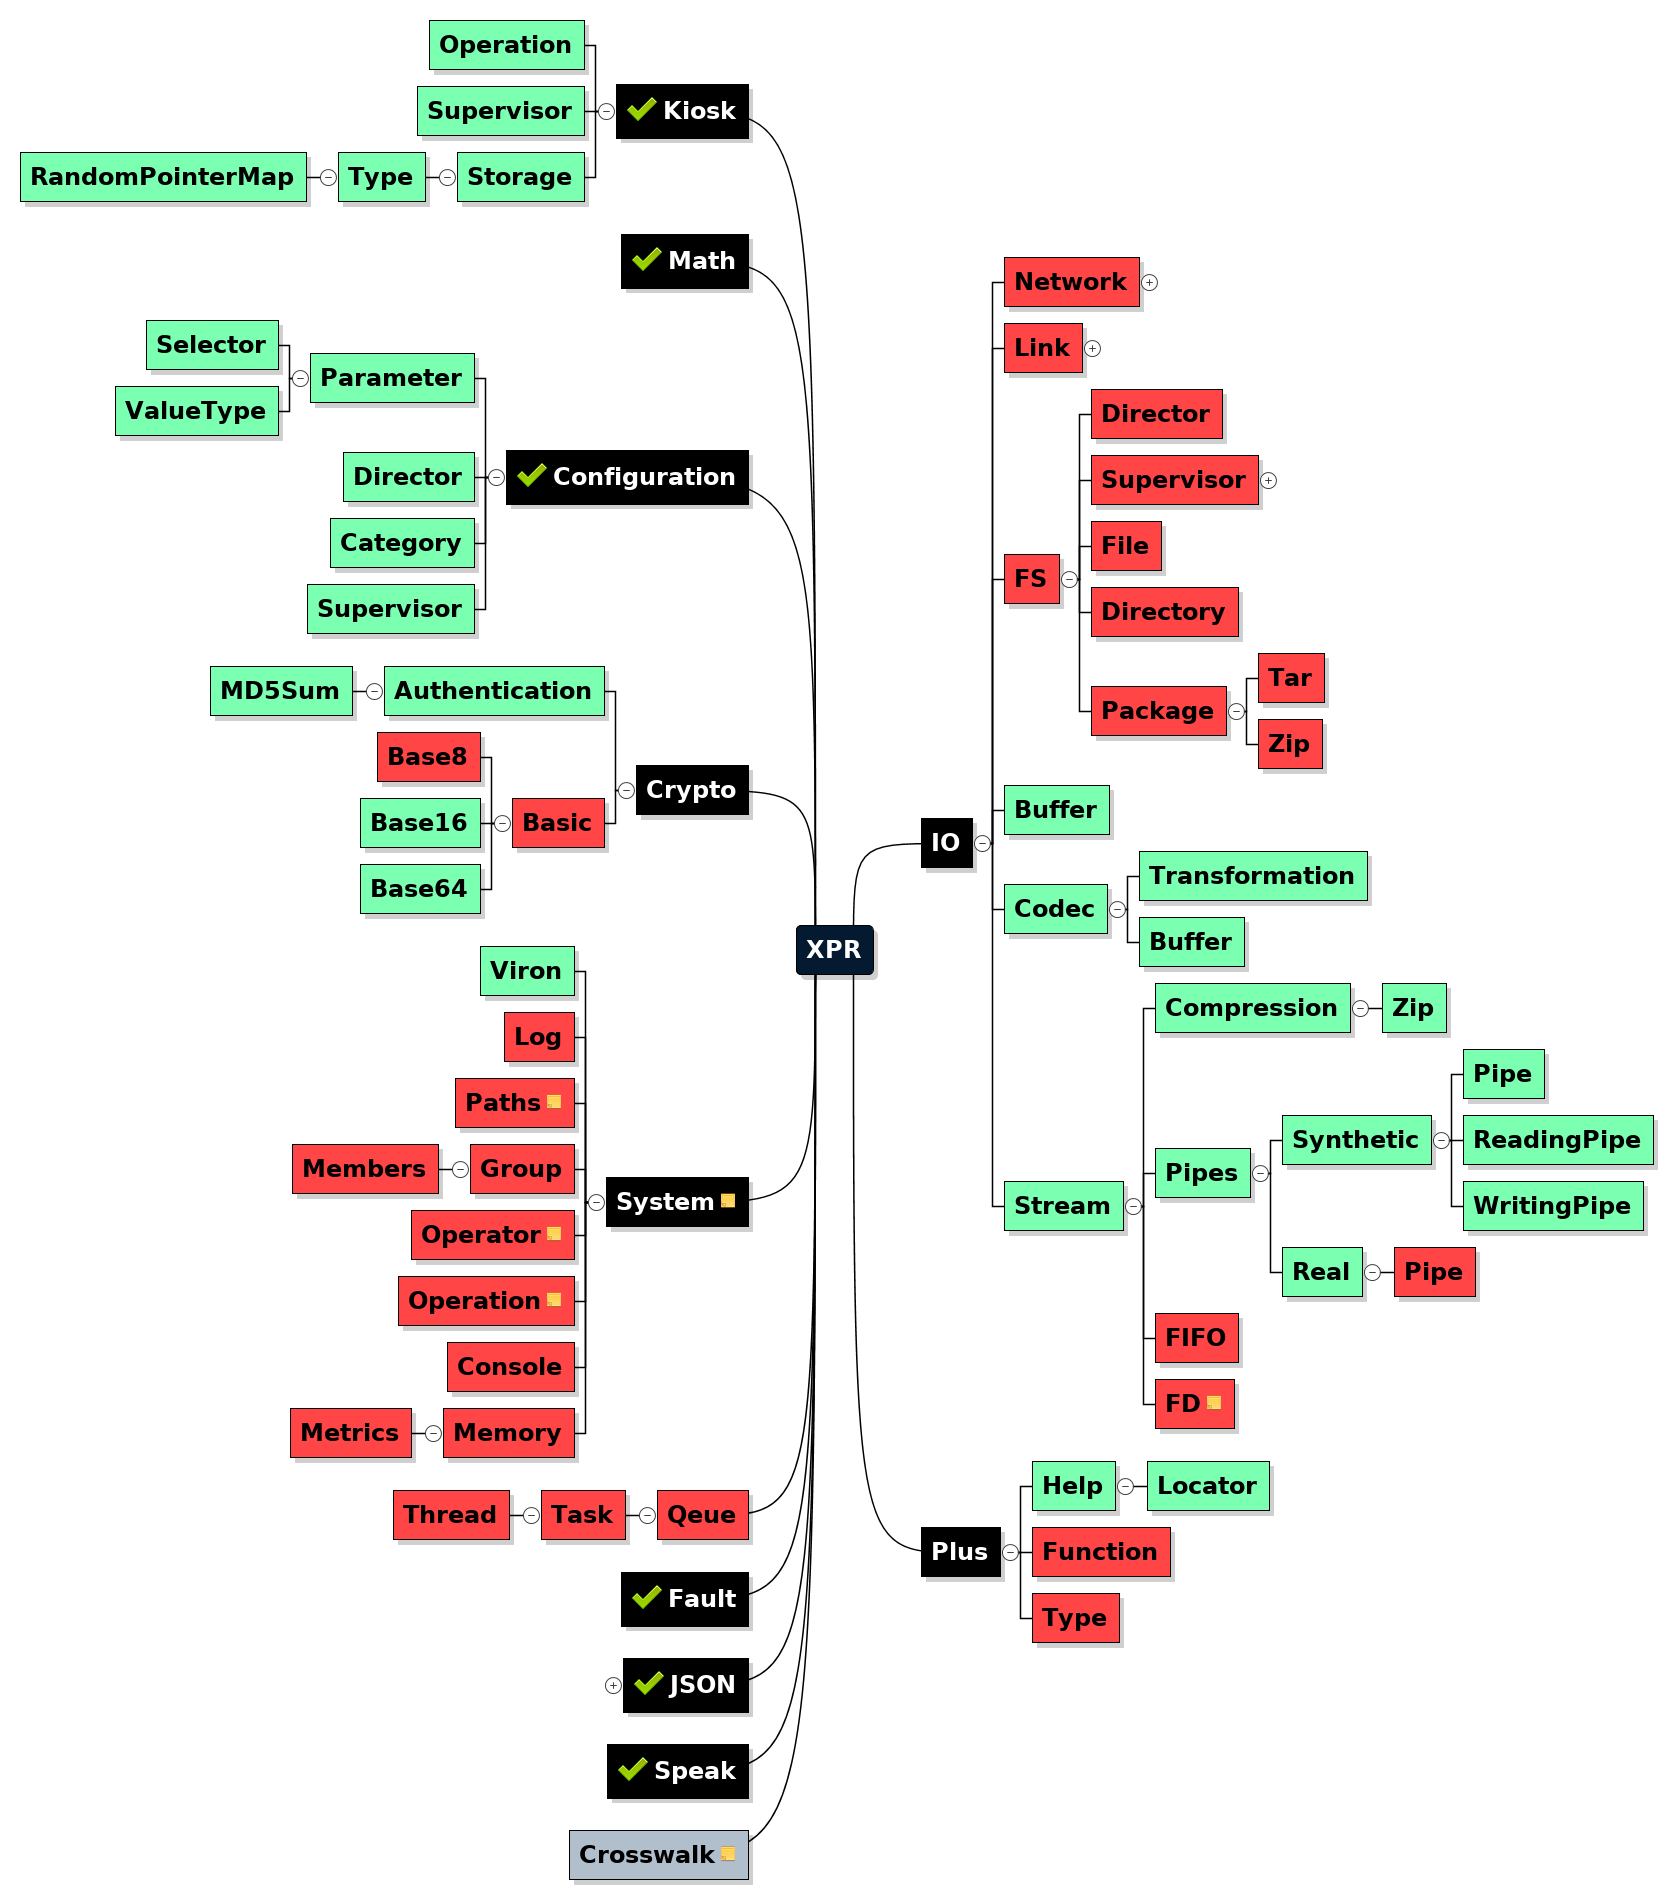
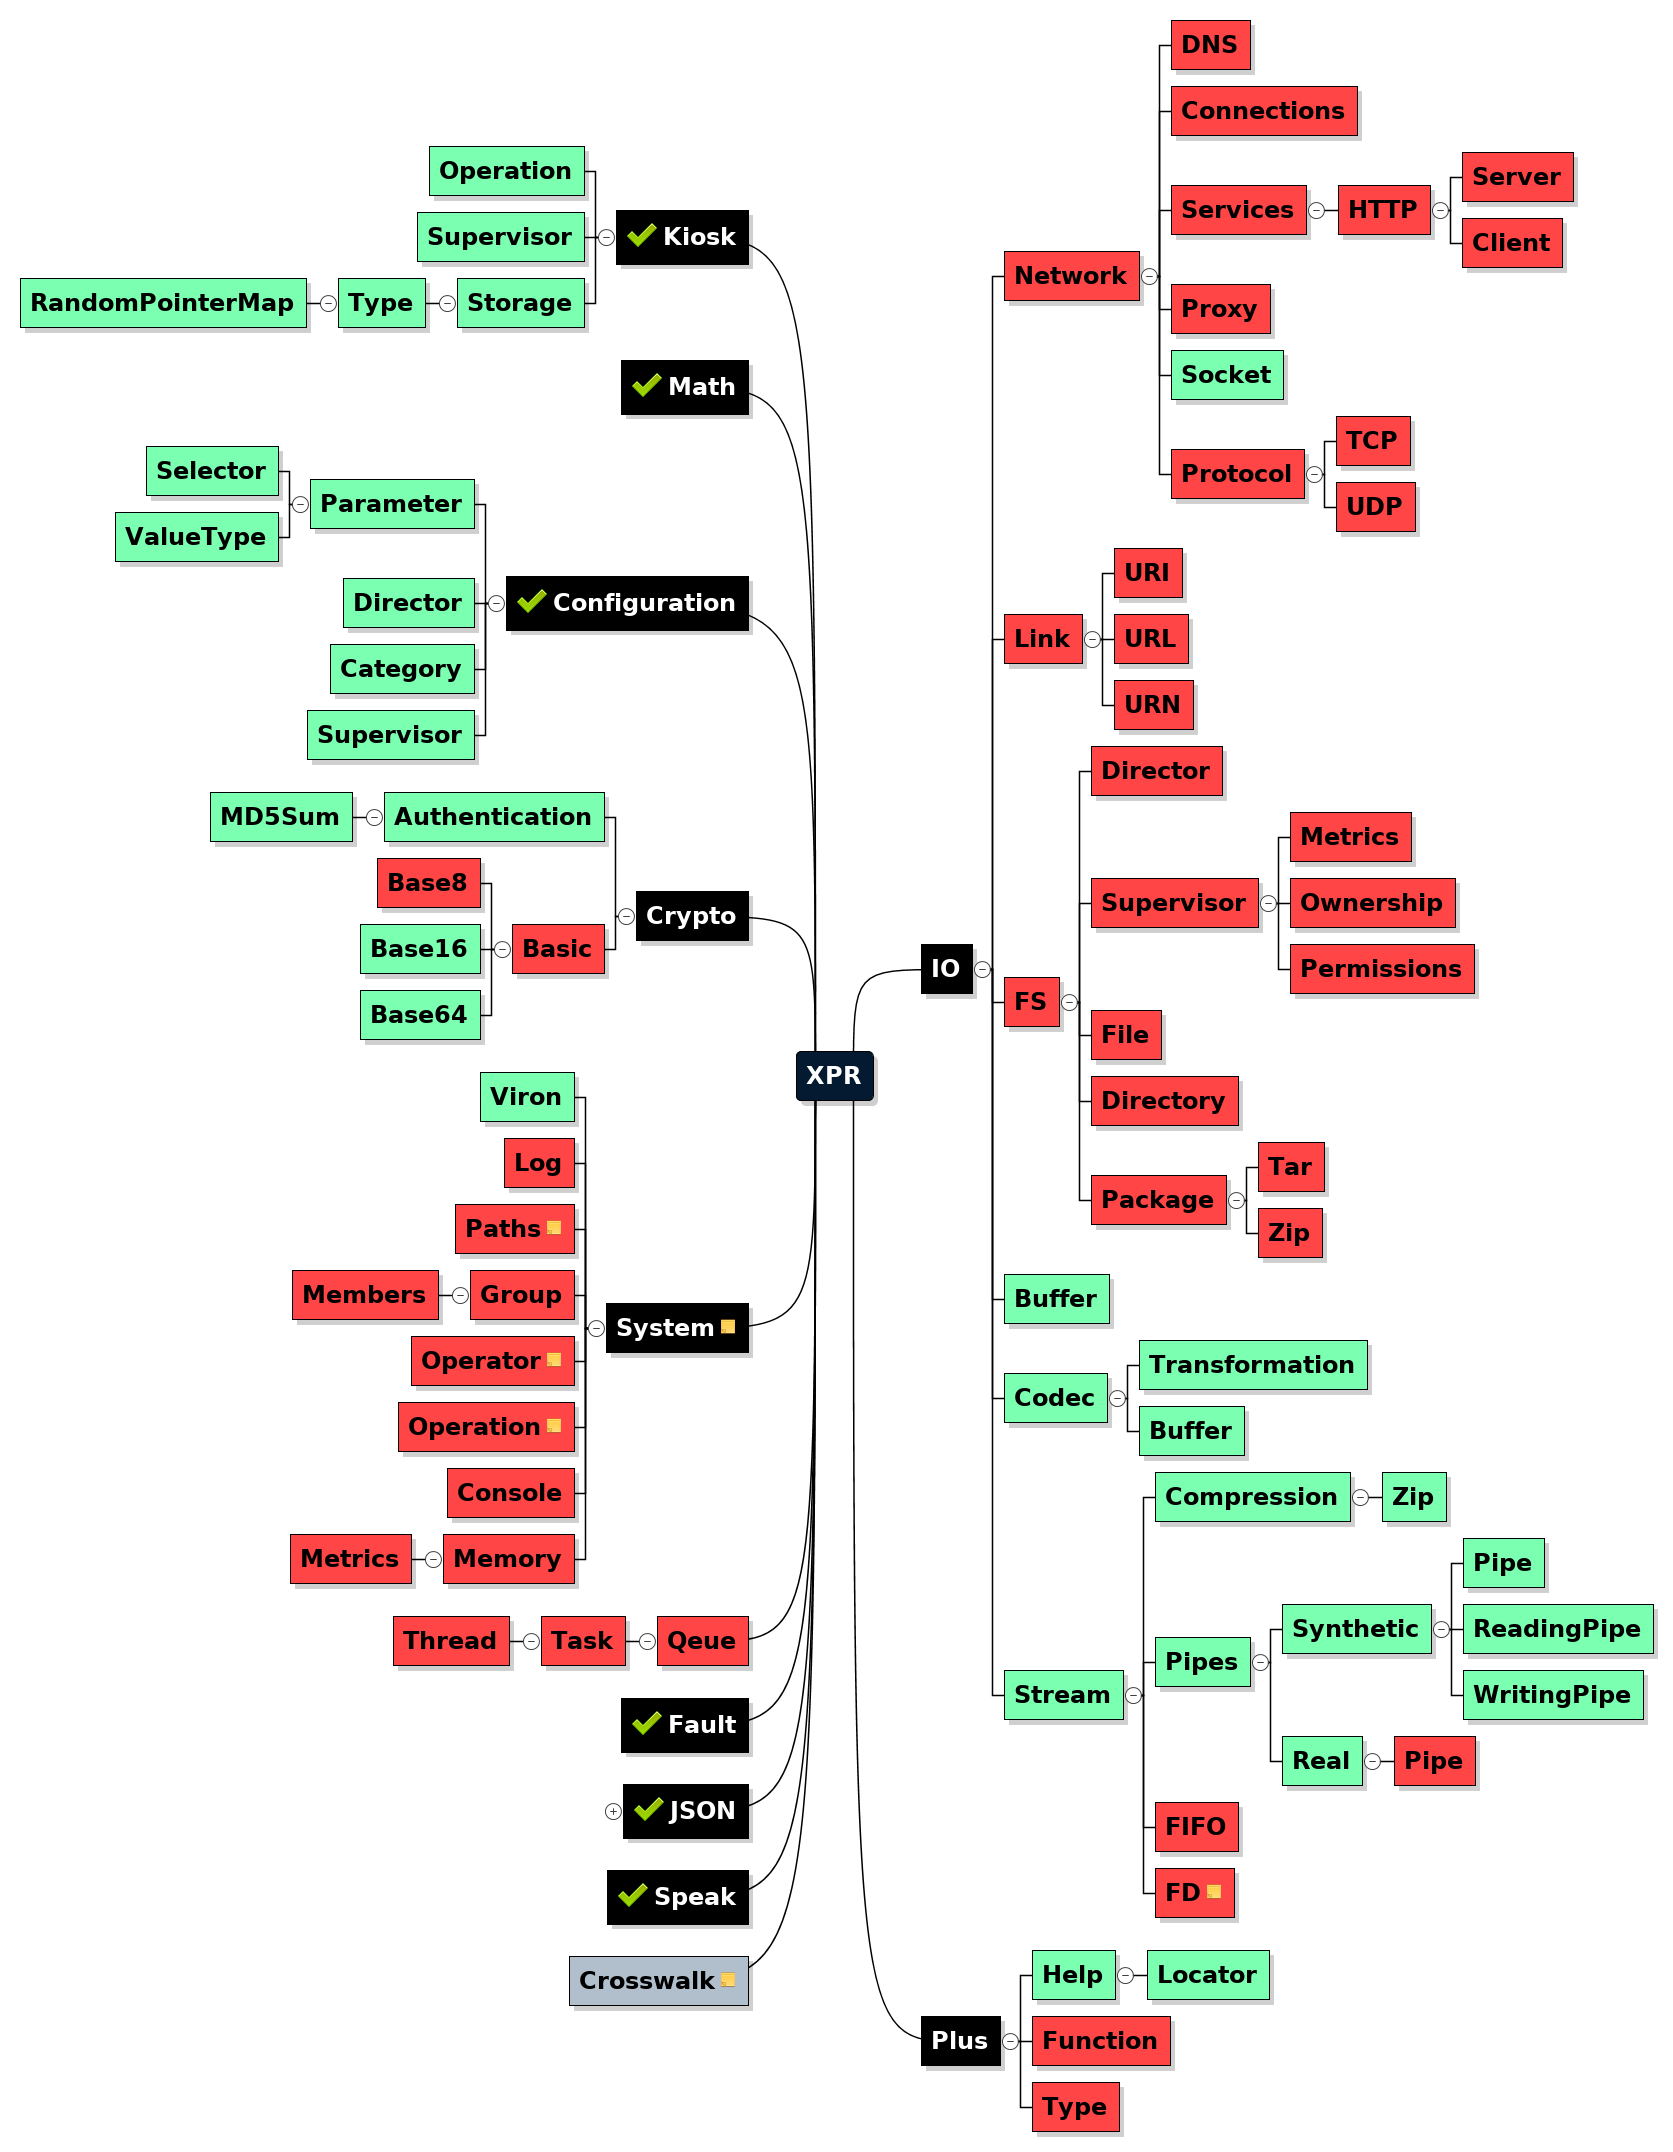
Network.Socket Support
Map Synchronization

diff --git a/src/main/java/XPR/IO/Network/Socket.java b/src/main/java/XPR/IO/Network/Socket.java
@@ -25,12 +25,12 @@ public class Socket extends java.net.Socket {
   }
 
   @Override
-  public InputStream getInputStream() throws IOException {
+  public InputStream getInputStream() {
     return Stream.get(reader);
   }
 
   @Override
-  public OutputStream getOutputStream() throws IOException {
+  public OutputStream getOutputStream() {
     return Stream.get(writer);
   }
 
